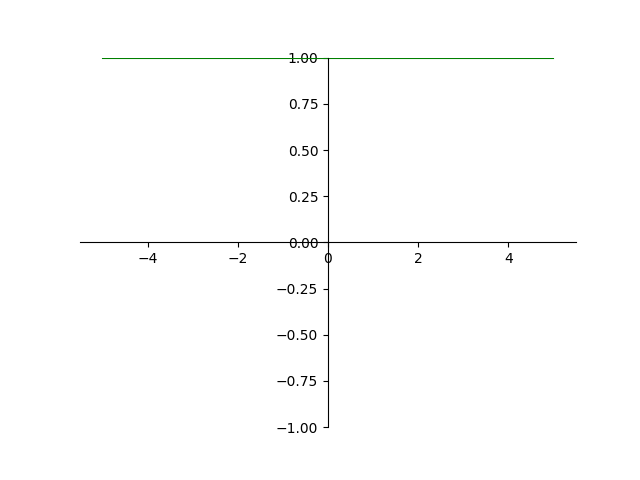
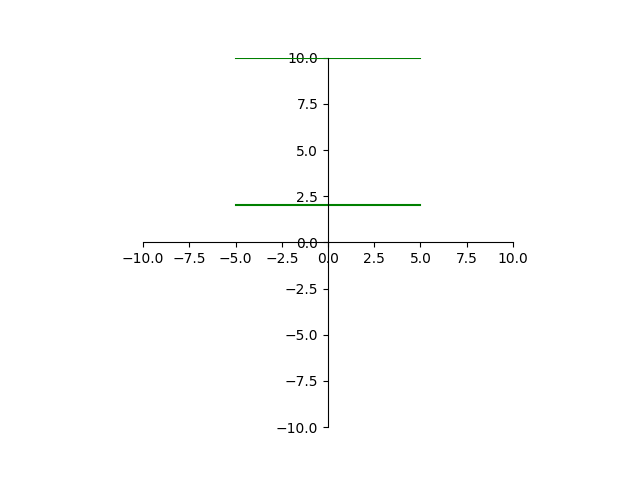
Added possibility of graphing multiple functions

diff --git a/grapher.py b/grapher.py
@@ -3,10 +3,21 @@ import numpy
 
 
 def graph(i):
-    x = numpy.linspace(-5, 5, 1000)
+    dim = 10
+    x = numpy.linspace(-5, 5, 10)
     y = eval(i)
-    if not type(x) == type(y) or not len(x) == len(y):
-        y = [y for i in range(len(x))]
+    print(type(y))
+    if type(y) is tuple:
+        y = list(y)
+    if type(y) is not list:
+        if not type(x) == type(y) or not len(x) == len(y):
+            y = tuple([y for _ in range(len(x))])
+    else:
+        for elem_index in range(len(y)):
+            if type(y[elem_index]) in (float, int) or not len(x) == len(y[elem_index]):
+                y[elem_index] = [y[elem_index] for _ in range(len(x))]
+    print(y)
+    print(x)
     fig = plt.figure()
     ax = fig.add_subplot(1, 1, 1)
     ax.spines['left'].set_position('center')
@@ -15,7 +26,14 @@ def graph(i):
     ax.spines['top'].set_color('none')
     ax.xaxis.set_ticks_position('bottom')
     ax.yaxis.set_ticks_position('left')
-    yabs_max = abs(max(ax.get_ylim(), key=abs))
-    ax.set_ylim(ymin=-yabs_max, ymax=yabs_max)
-    plt.plot(x, y, 'g')
+    y_abs_max = dim
+    ax.set_ylim(ymin=-y_abs_max, ymax=y_abs_max)
+    x_abs_max = dim
+    ax.set_xlim(xmin=-x_abs_max, xmax=x_abs_max)
+    if type(y) is list:
+        for graph_y in y:
+            plt.plot(x, graph_y, 'g')
+    else:
+        plt.plot(x, y, 'g')
+    ax.set_aspect(1)
     plt.savefig("graph.png")

diff --git a/playground.py b/playground.py
@@ -1,0 +1,1 @@
+y=eval(input())
